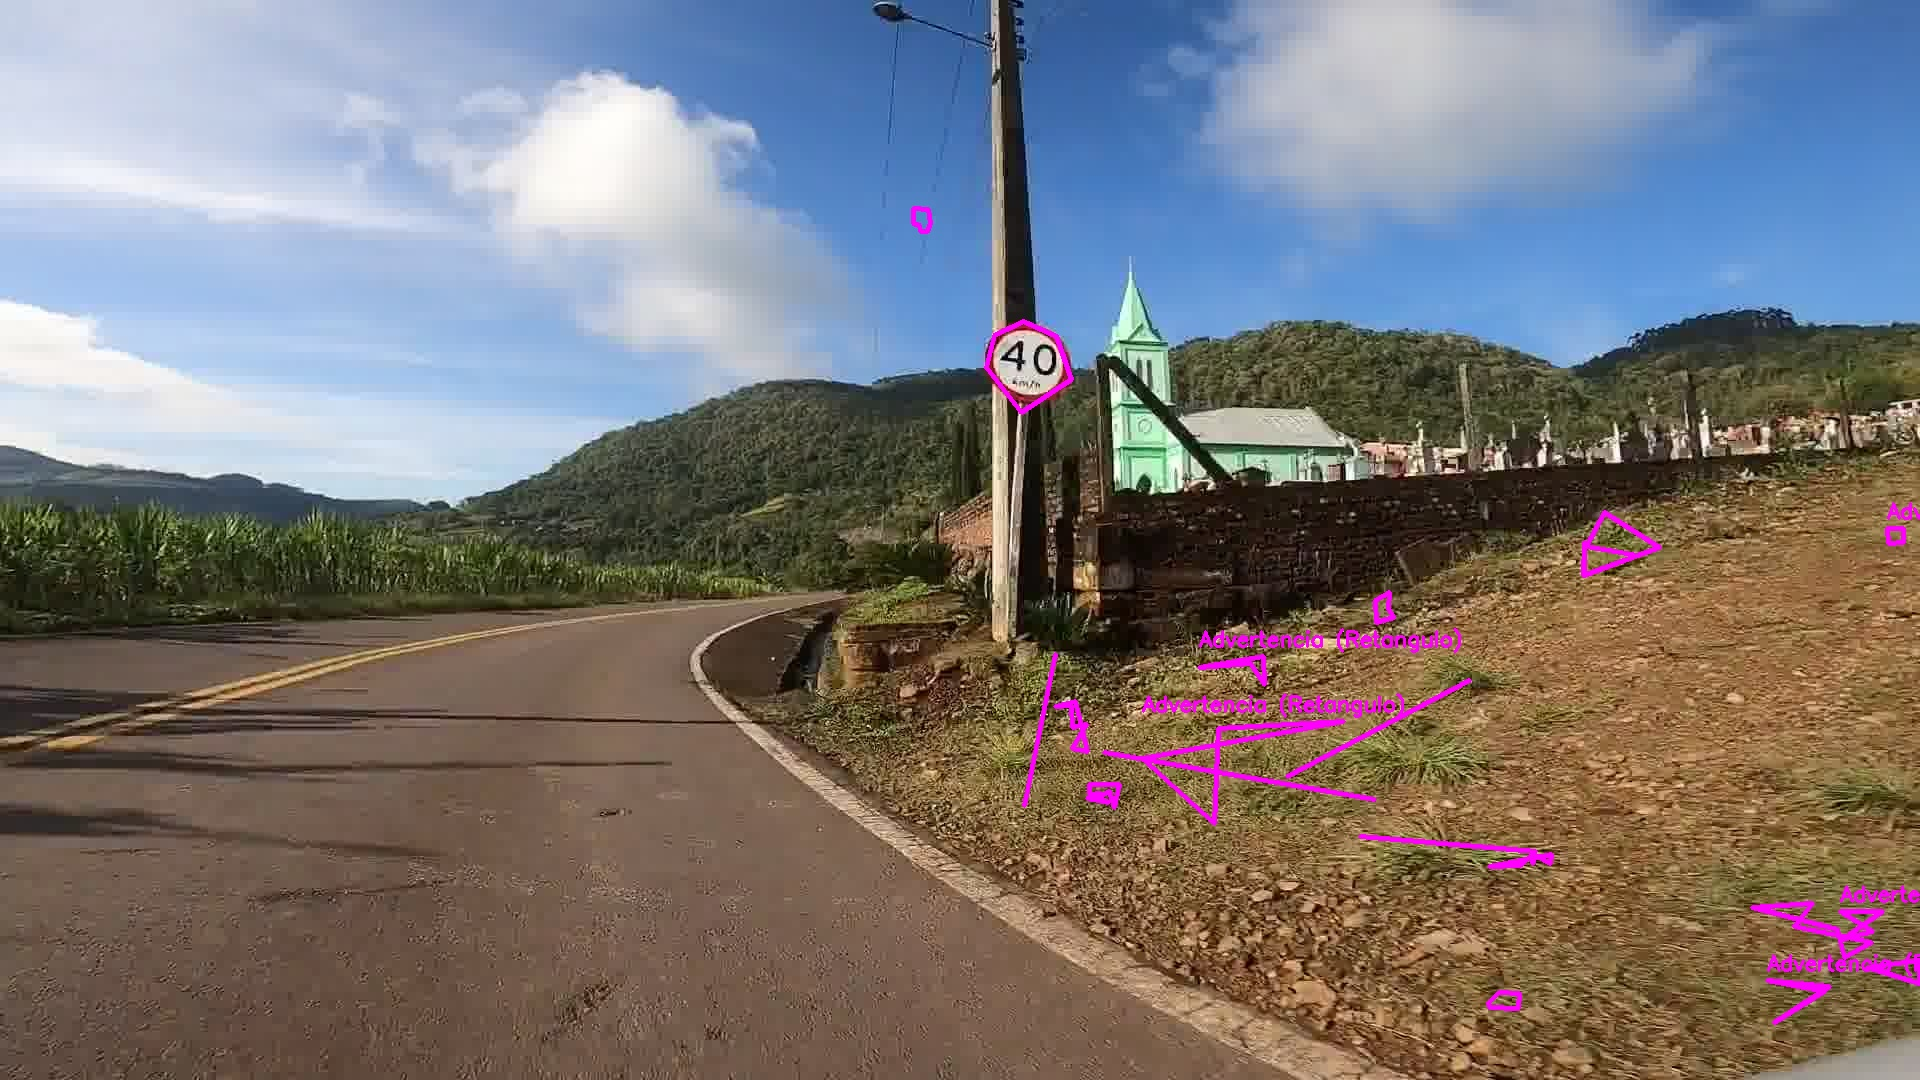
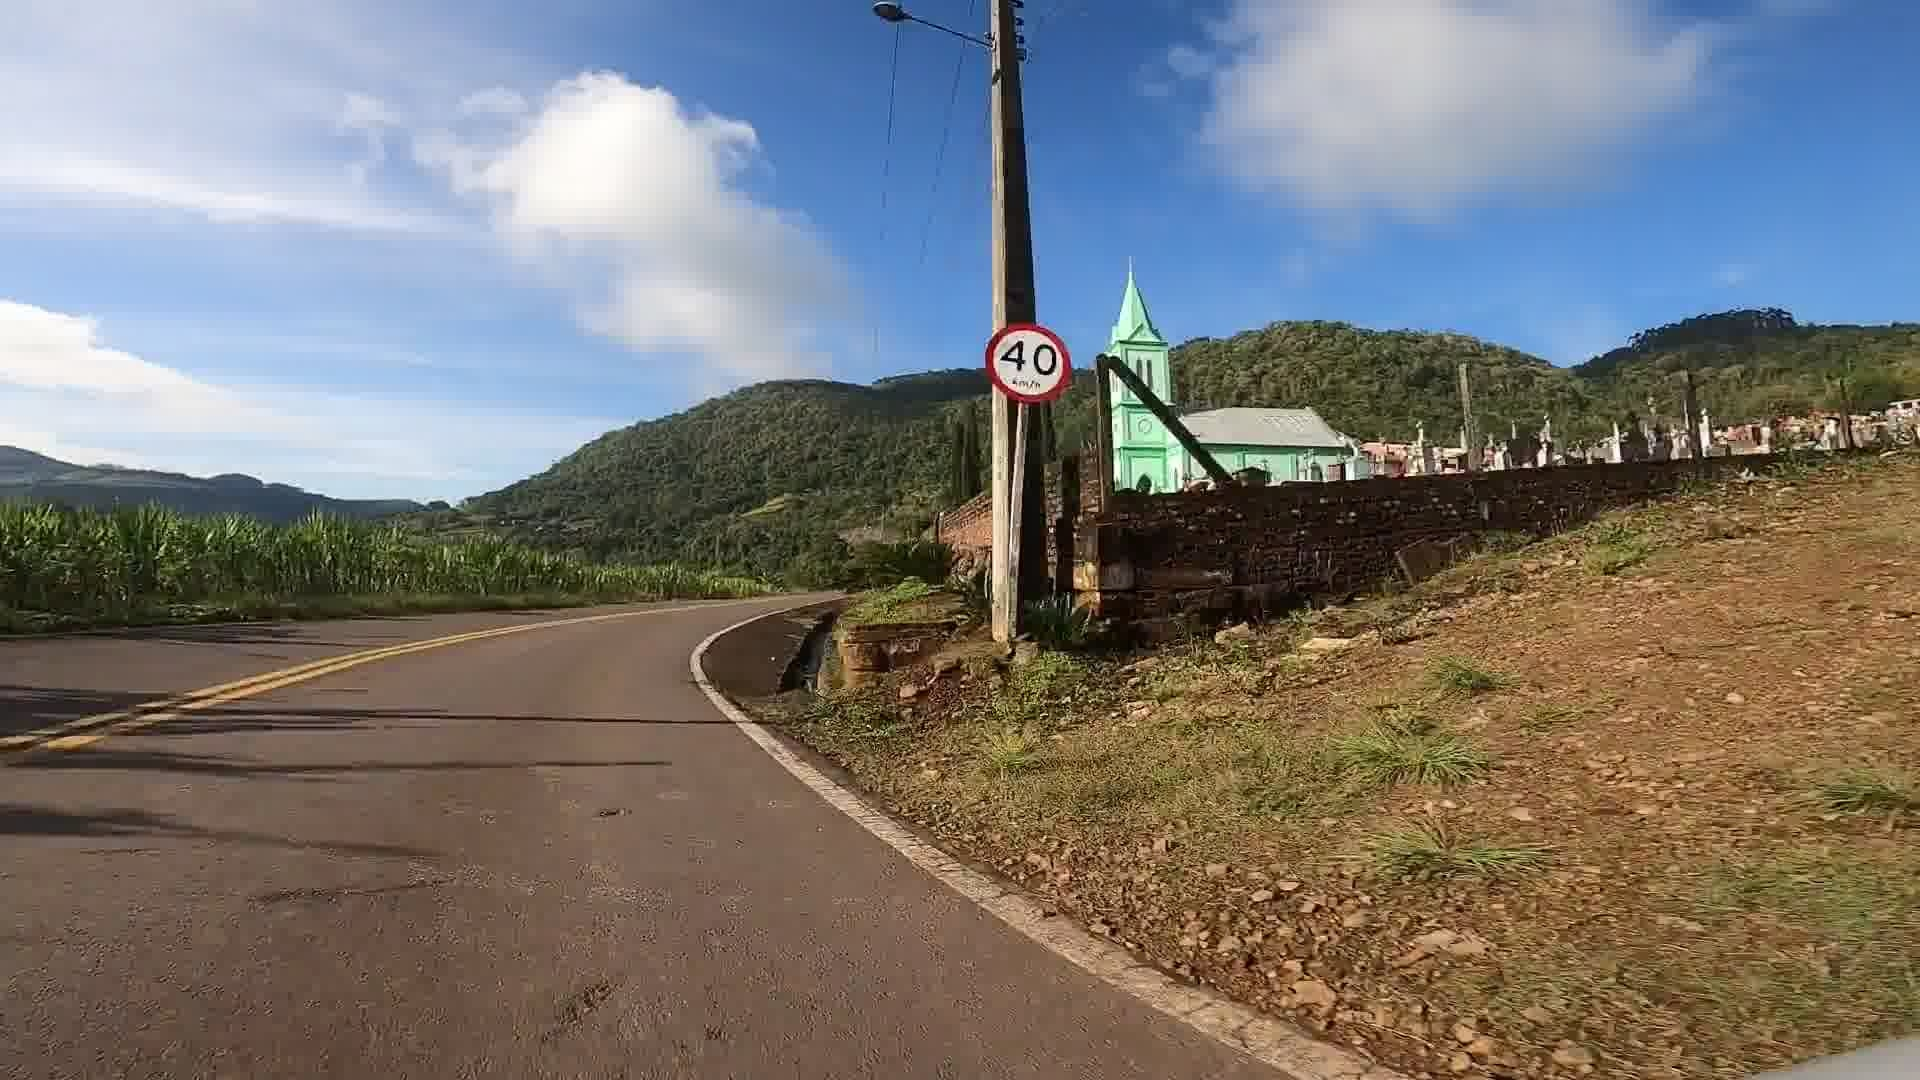
adicionado cortar possiveis placas

diff --git a/script.py b/script.py
@@ -2,8 +2,10 @@ import cv2 as cv
 import numpy as np
 import argparse
 import os
-
 from sklearn.cluster import KMeans
+
+from utils.mascaras import color_segmentation
+from utils.preProcess import contrast_enhance
 
 # Nomes arquivos
 BLUR = "blur.jpg"
@@ -17,6 +19,7 @@ paths = [
     GRADIENTE,
     OUTPUT
 ]
+
 
 def concatenar_paths(base_name):
     """
@@ -63,31 +66,15 @@ def detectar_circulos(img_colorida, img_bordas, output_img):
     else:
         print("Nenhum círculo detectado.")
 
-def detectar_poligonos(img_colorida, img_bordas, output_img):
+def extrair_poligonos(img_colorida, img_bordas, output_img):
     """
     Encontra, analisa e desenha polígonos (triângulos, retângulos, octógonos)
     que se assemelham a placas de trânsito.
     """
+    imgs = []
     # 1. Encontrar todos os contornos na imagem de bordas
     # cv.RETR_EXTERNAL é útil para pegar apenas os contornos externos
     contours, _ = cv.findContours(img_bordas, cv.RETR_EXTERNAL, cv.CHAIN_APPROX_SIMPLE)
-
-    # 2. Preparar máscaras de cor para validação (vermelho e amarelo)
-    hsv = cv.cvtColor(img_colorida, cv.COLOR_BGR2HSV)
-    
-    # Vermelho (para placas PARE, Dê a Preferência, etc.)
-    lower_red1 = np.array([0, 120, 70])
-    upper_red1 = np.array([10, 255, 255])
-    mask_r1 = cv.inRange(hsv, lower_red1, upper_red1)
-    lower_red2 = np.array([170, 120, 70])
-    upper_red2 = np.array([180, 255, 255])
-    mask_r2 = cv.inRange(hsv, lower_red2, upper_red2)
-    red_mask = mask_r1 + mask_r2
-
-    # Amarelo (para placas de advertência)
-    lower_yellow = np.array([20, 100, 100])
-    upper_yellow = np.array([30, 255, 255])
-    yellow_mask = cv.inRange(hsv, lower_yellow, upper_yellow)
 
     # 3. Iterar sobre cada contorno encontrado
     for cnt in contours:
@@ -106,58 +93,37 @@ def detectar_poligonos(img_colorida, img_bordas, output_img):
         approx = cv.approxPolyDP(cnt, epsilon, True)
 
         # Obter a caixa delimitadora para analisar a cor
-        x, y, w, h = cv.boundingRect(approx)
+        x, y, w, h = cv.boundingRect(cnt)
 
+        height, width = img_colorida.shape[:2]
+        y1 = max(y - 20, 0)
+        y2 = min(y + h + 20, height)
+        x1 = max(x - 20, 0)
+        x2 = min(x + w + 20, width)
+        placa_cortada = img_colorida[y:y+h, x:x+w]
+
+        imgs.append(placa_cortada)
+
+    return imgs
+
+        # cv.imshow("Placa Cortada", placa_cortada)
+        # cv.waitKey(0)
         # Identificar a forma pelo número de vértices
-        num_vertices = len(approx)
+        # num_vertices = len(approx)
 
         # NOVO FILTRO: Solidez - um dos mais importantes!
-        hull = cv.convexHull(cnt)
-        hull_area = cv.contourArea(hull)
-        solidity = float(area) / hull_area if hull_area > 0 else 0
+        # hull = cv.convexHull(cnt)
+        # hull_area = cv.contourArea(hull)
+        # solidity = float(area) / hull_area if hull_area > 0 else 0
 
         # Ignora formas não-sólidas (com solidez < 0.9)
         # if solidity < 0.90:
         #     continue
 
-        forma_detectada = ""
-        cor_validada = False
-
-        # É um octógono? (Placa PARE)
-        if num_vertices == 8:
-            # Validar pela cor vermelha
-            roi = red_mask[y:y+h, x:x+w]
-            # Se mais de 50% da área do contorno for vermelha
-            if cv.countNonZero(roi) / area > 0.5:
-                forma_detectada = "PARE (Octogono)"
-                cor_validada = True
-
-        # É um quadrado/retângulo? (Placas de Advertência)
-        elif num_vertices == 4:
-            # Validar pela cor amarela
-            roi = yellow_mask[y:y+h, x:x+w]
-            if cv.countNonZero(roi) / area > 0.5:
-                forma_detectada = "Advertencia (Retangulo)"
-                cor_validada = True
-        
-        # É um triângulo? (Placa Dê a Preferência)
-        # NOTA: A placa "Dê a preferência" é um triângulo invertido. A detecção pode
-        # ser mais complexa, mas vamos começar com a forma básica.
-        elif num_vertices == 3:
-             # Validar pela cor vermelha (da borda)
-            roi = red_mask[y:y+h, x:x+w]
-            # Para bordas, a porcentagem de cor será menor
-            if cv.countNonZero(roi) / area > 0.1:
-                forma_detectada = "Preferencia (Triangulo)"
-                cor_validada = True
-
-        # Se a forma e a cor foram validadas, desenhe na imagem de saída
-        if cor_validada:
-            print(f"Detectado polígono: {forma_detectada}")
-            # Desenha o contorno
-            cv.drawContours(output_img, [approx], -1, (255, 0, 255), 3)
-            # Escreve o nome da forma
-            cv.putText(output_img, forma_detectada, (x, y - 10), cv.FONT_HERSHEY_SIMPLEX, 0.7, (255, 0, 255), 2)
+        # Desenha o contorno
+        # cv.drawContours(output_img, [approx], -1, (255, 0, 255), 3)
+        # Escreve o nome da forma
+        # cv.putText(output_img, forma_detectada, (x, y - 10), cv.FONT_HERSHEY_SIMPLEX, 0.7, (255, 0, 255), 2)
 
 def segmentar_por_bordas(img):
     # 2. Conversão para escala de cinza, equalização de histograma para melhorar contraste e suavização
@@ -181,34 +147,6 @@ def segmentar_por_bordas(img):
     # 5. Detecção de bordas (Canny)
     edges = cv.Canny(np.uint8(grad_thresh), 120, 240)
 
-def segmentar_por_cor(img):
-        # 0. Saturação da imagem
-    #    A saturação é uma medida de intensidade de cor.
-    #    Aumentar a saturação pode ajudar a destacar as cores das placas.
-    #    A saturação é ajustada para 1.5 vezes o valor original.
-    hsv = cv.cvtColor(img, cv.COLOR_BGR2HSV)
-    # hsv[..., 1] = cv.normalize(hsv[..., 1], None, alpha=0, beta=255, norm_type=cv.NORM_MINMAX)
-
-    # Intervalos de Cor (Vermelho, Amarelo, Azul)
-    # Vermelho
-    lower_red1 = np.array([0, 120, 70]); upper_red1 = np.array([10, 255, 255])
-    lower_red2 = np.array([170, 120, 70]); upper_red2 = np.array([180, 255, 255])
-    red_mask = cv.bitwise_or(cv.inRange(hsv, lower_red1, upper_red1), cv.inRange(hsv, lower_red2, upper_red2))
-
-    # Amarelo
-    lower_yellow = np.array([20, 100, 100]); upper_yellow = np.array([30, 255, 255])
-    yellow_mask = cv.inRange(hsv, lower_yellow, upper_yellow)
-
-    # Azul (placas de serviço/informação)
-    lower_blue = np.array([100, 150, 0]); upper_blue = np.array([140, 255, 255])
-    blue_mask = cv.inRange(hsv, lower_blue, upper_blue)
-
-    # Unifica todas as máscaras de cor em uma só
-    final_color_mask = cv.bitwise_or(red_mask, yellow_mask)
-    final_color_mask = cv.bitwise_or(final_color_mask, blue_mask)
-    
-    return final_color_mask
-
 def segmentar_por_filtro_morfologico(img):
     """
     Aplica segmentação por cor seguida de operações morfológicas para
@@ -220,31 +158,20 @@ def segmentar_por_filtro_morfologico(img):
     Returns:
         mascara_final: Uma máscara binária onde as placas são blobs brancos sólidos.
     """
-    # 1. Segmentação por cor
-    #    Usamos a função segmentar_por_cor para criar uma máscara de cor
-    #    A máscara resultante é uma imagem binária onde as placas são brancas
-    #    e o fundo é preto.
-    cor = segmentar_por_cor(img)
+    # Segmentação por cor
+    mascara = color_segmentation(img)
 
     # Define um kernel para operações morfológicas
-    #   ksize = (largura, altura)
-    #   outras opções: cv.MORPH_ELLIPSE, cv.MORPH_CROSS
-    kernel = cv.getStructuringElement(cv.MORPH_RECT, (3, 3))
+    kernel = cv.getStructuringElement(cv.MORPH_RECT, (2, 2))
 
     # Aplica operação morfologica
     # 1. Abertura: Remove pequenos objetos do fundo
-    abertura = cv.morphologyEx(cor, cv.MORPH_OPEN, kernel, iterations=1)
-    fechamento = cv.morphologyEx(abertura, cv.MORPH_CLOSE, kernel, iterations=1)
+    # mascara = cv.morphologyEx(mascara, cv.MORPH_OPEN, kernel, iterations=1)
 
     # 2. Fechamento: Preenche pequenos buracos dentro dos objetos
+    mascara = cv.morphologyEx(mascara, cv.MORPH_CLOSE, kernel, iterations=1)
 
-    # cv.imshow("Segmentação por Cor", cor)
-    # cv.imshow("Abertura", abertura)
-    # cv.imshow("Fechamento", fechamento)
-    # cv.waitKey(0)
-    # cv.destroyAllWindows()
-
-    return fechamento 
+    return mascara 
 
 def find(img_path, janela):
     # 1. Leitura
@@ -254,6 +181,8 @@ def find(img_path, janela):
 
     if img is None:
         raise FileNotFoundError(f"Não foi possível ler a imagem em {img_path}")
+
+    img = contrast_enhance(img)
 
     # Segmentação por filtros morfológicos
     morf = segmentar_por_filtro_morfologico(img)
@@ -265,8 +194,17 @@ def find(img_path, janela):
     # detectar_circulos(img, edges, output)
     
     # ========== Detecção de polígonos que podem ser placas ========== 
-    detectar_poligonos(img, morf, output)
-    
+    imagens_cortadas = extrair_poligonos(img, morf, output)
+
+    for img_cortada in imagens_cortadas:
+        ret = extracao(img_cortada)
+        classifiqueido = classificacao(ret)
+        if classifiqueido != 0:
+            # cv.putText(output, f"Placa: {classifiqueido}", (10, 30), cv.FONT_HERSHEY_SIMPLEX, 0.7, (0, 255, 0), 2)
+            print(f"Placa classificada como: {classifiqueido} com base nos parâmetros: {ret}")
+            cv.imshow("Placa Detectada", img_cortada)
+            cv.waitKey(0)
+
     # 8. Exibe janela com o gradiente e com os círculos
     if janela == 1:
         # Pega a máscara de cor base para comparação
@@ -313,6 +251,9 @@ def extracao(img):
     # Detectando contornos e selecionando o maior.
     contornos, _ = cv.findContours(bin_img, cv.RETR_EXTERNAL, cv.CHAIN_APPROX_SIMPLE)
     contorno_principal = max(contornos, key=cv.contourArea)
+    cv.drawContours(img, [contorno_principal], -1, (0, 255, 0), 2)
+    cv.imshow("Contorno Principal", img)
+    cv.waitKey(0)
 
     # Calculando circularidade.
     area = cv.contourArea(contorno_principal)
@@ -355,12 +296,6 @@ def classificacao(vetor):
     elif vetor[3] == "amarelo" and vetor[4] == "preto":
         if (vetor[0] <= 0.5 and (vetor[1] >= 0.75 and vetor[1] <= 1.25)) or vetor[2] == 4:
             placa = 2
-    elif vetor[3] == "laranja" and vetor[4] == "preto":
-        if vetor[0] <= 0.5 or vetor[2] == 4:
-            placa = 4
-    else:
-        if vetor[0] <= 0.5 or vetor[2] == 4:
-            placa = 3
             
     return placa
 

diff --git a/utils/mascaras.py b/utils/mascaras.py
@@ -1,0 +1,24 @@
+import numpy as np
+import cv2 as cv
+
+def color_segmentation(img):
+    hsv = cv.cvtColor(img, cv.COLOR_BGR2HSV)
+
+    # Vermelho
+    lower_red1 = np.array([0, 130, 90])
+    upper_red1 = np.array([10, 255, 255])
+    lower_red2 = np.array([170, 130, 90])
+    upper_red2 = np.array([180, 255, 255])
+
+    # Amarelo
+    lower_yellow = np.array([22, 100, 100])
+    upper_yellow = np.array([30, 255, 255])
+
+    mask_red1 = cv.inRange(hsv, lower_red1, upper_red1)
+    mask_red2 = cv.inRange(hsv, lower_red2, upper_red2)
+    mask_yellow = cv.inRange(hsv, lower_yellow, upper_yellow)
+
+    mask_combined = cv.bitwise_or(mask_red1, mask_red2)
+    mask_combined = cv.bitwise_or(mask_combined, mask_yellow)
+
+    return mask_combined

diff --git a/utils/preProcess.py b/utils/preProcess.py
@@ -1,0 +1,8 @@
+import cv2 as cv
+
+def contrast_enhance(img):
+    img_lab = cv.cvtColor(img, cv.COLOR_BGR2Lab)
+    L, a, b = cv.split(img_lab)
+    L = cv.equalizeHist(L)
+    img_lab_merge = cv.merge((L, a, b))
+    return cv.cvtColor(img_lab_merge, cv.COLOR_Lab2BGR)
